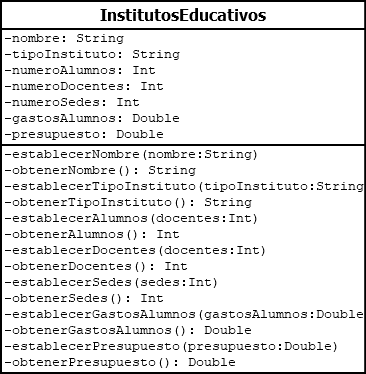
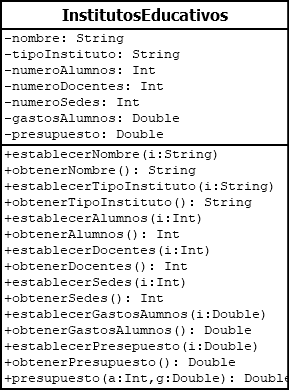
Taller 03/Tarea de programación

Changed region(s): [[0.0, 0.0, 0.9965, 1.0]]

diff --git a/problema3/Ejecutor.java b/problema3/Ejecutor.java
@@ -2,7 +2,7 @@
  * Click nbfs://nbhost/SystemFileSystem/Templates/Licenses/license-default.txt to change this license
  * Click nbfs://nbhost/SystemFileSystem/Templates/Classes/Main.java to edit this template
  */
-package equivalentehoras;
+package intitutoseducativos;
 
 /**
  *
@@ -15,41 +15,64 @@ public class Ejecutor {
      */
     public static void main(String[] args) {
         //Crear dos objetos.
-        EquivalenteHoras tiempo = new EquivalenteHoras();
-        EquivalenteHoras tiempo2 = new EquivalenteHoras();
+        InstitutosEducativos instituto = new InstitutosEducativos();
+        InstitutosEducativos instituto2 = new InstitutosEducativos();
         
         //Establecer los valores de los atributos del primer objeto.
-        tiempo.establecerHoras(48.20);
+        instituto.establecerNombre("La Dolorosa");
+        instituto.establecerTipoInstituto("Fiscomisional");
+        instituto.establecerNumeroAlumnos(2509);
+        instituto.establecerNumeroDocentes(55);
+        instituto.establecerNumeroSedes(1);
+        instituto.establecerGastosAlumnos(225.10);
         
-        //Se llama a los metodos.
-        tiempo.sacarMinutos();
-        tiempo.sacarSegundos();
-        tiempo.sacarDias();
+        //Hacemos el llamado de la funcion para
+        //calcular el valor del presupuesto.
+        instituto.presupuestos();
         
-        //Se presenta.
-        System.out.printf("Encontrar la equivalencia de las horas en "
-                + "minutos, segundos y días.\n\n"
-                + "-> %.2f horas tienen un equivalente de %.2f minutos, "
-                + "%.2f segundos y %.2f días\n",tiempo.obtenerHoras(), 
-                tiempo.obtenerMinutos(), tiempo.obtenerSegundos(), 
-                tiempo.obtenerDias());
+        //Presentamos los valores declarados al primer objeto.
+        System.out.printf("Administración de Instituciones Educativas\n\n"
+                + "Nombre del Intituto Educativo: %s\n"
+                + "Tipo de Institutción: %s\n"
+                + "Cantidad de Alumnos de la Institución: %d\n"
+                + "Docentes de la Institución: %d\n"
+                + "Cantidad de Sedes de la Institución: %d\n"
+                + "Los gastos de los alumnos son de $%.2f\n"
+                + "El presupuesto de la Institución es de $%.2f\n", 
+                instituto.obtenerNombre(), instituto.obtenerTipoInstituto(), 
+                instituto.obtenerNumeroAlumnos(), 
+                instituto.obtenerNumeroDocentes(), 
+                instituto.obtenerNumeroSedes(), 
+                instituto.obtenerGastosAlumnos(), 
+                instituto.obtenerPresupuesto());
         
-        System.out.println("-----------------------------------------------");
+         System.out.println("-----------------------------------------------");
         
-        tiempo2.establecerHoras(15.50);
+         //Establecer los valores de los atributos del primer objeto.
+        instituto2.establecerNombre("Daniel Álvarez");
+        instituto2.establecerTipoInstituto("Fiscomisional");
+        instituto2.establecerNumeroAlumnos(1890);
+        instituto2.establecerNumeroDocentes(85);
+        instituto2.establecerNumeroSedes(1);
+        instituto2.establecerGastosAlumnos(160.52);
         
-        //Se llama a los metodos.
-        tiempo2.sacarMinutos();
-        tiempo2.sacarSegundos();
-        tiempo2.sacarDias();
+        //Hacemos el llamado del metodo para calcular el valor del presupuesto.
+        instituto2.presupuestos();
         
-        //Se presenta.
-        System.out.printf("Encontrar la equivalencia de las horas en "
-                + "minutos, segundos y días.\n\n"
-                + "-> %.2f horas tienen un equivalente de %.2f minutos, "
-                + "%.2f segundos y %.2f días\n",tiempo2.obtenerHoras(), 
-                tiempo2.obtenerMinutos(), tiempo2.obtenerSegundos(), 
-                tiempo2.obtenerDias());
+        //Presentamos los valores declarados al primer objeto.
+        System.out.printf("Nombre del Intituto Educativo: %s\n"
+                + "Tipo de Institutción: %s\n"
+                + "Cantidad de Alumnos de la Institución: %d\n"
+                + "Docentes de la Institución: %d\n"
+                + "Cantidad de Sedes de la Institución: %d\n"
+                + "Los gastos de los alumnos son de $%.2f\n"
+                + "El presupuesto de la Institución es de $%.2f\n", 
+                instituto2.obtenerNombre(), instituto.obtenerTipoInstituto(), 
+                instituto2.obtenerNumeroAlumnos(), 
+                instituto2.obtenerNumeroDocentes(), 
+                instituto2.obtenerNumeroSedes(), 
+                instituto2.obtenerGastosAlumnos(), 
+                instituto2.obtenerPresupuesto());
     }
     
 }

diff --git a/problema4/Ejecutor.java b/problema4/Ejecutor.java
@@ -1,0 +1,85 @@
+/*
+ * Click nbfs://nbhost/SystemFileSystem/Templates/Licenses/license-default.txt to change this license
+ * Click nbfs://nbhost/SystemFileSystem/Templates/Classes/Main.java to edit this template
+ */
+package dispositivoselectronicos;
+
+/**
+ *
+ * @author Usuario
+ */
+public class Ejecutor {
+
+    /**
+     * @param args the command line arguments
+     */
+    public static void main(String[] args) {
+        //Crear dos objetos de tipo DispositivosElectronicos.
+        DispositivosElectronicos celulares = new DispositivosElectronicos();
+        DispositivosElectronicos celulares2 = new DispositivosElectronicos();
+        
+        //Inicializar variables del iva.
+        double iva = 0.12;
+        
+        //Establecer los valores de los tributos del primero objeto.
+        celulares.establecerSistemaOperativo("iOS");
+        celulares.establecerTamanioPantalla(4.95);
+        celulares.establecerCostoInicial(625.00);
+        celulares.establecerPorcentajeIva(iva);
+        celulares.establecerDireccionMac("A:5C:4D:6C:8E:7G:9");
+        celulares.establecerDireccionImei("865110048651100/00");
+        
+        //Hacer el llamado de las funciones.
+        celulares.calcularIvaCostoInicial();
+        celulares.calcularCostoFinal();
+        
+        //Se presenta:
+        System.out.printf("Caracteristicas de los Equipo Celulares.\n\n"
+                + "Sistema operativo del dispositivo: %s\n"
+                + "Pantalla de %.2f pulgadas.\n"
+                + "Precio del celular: $%.2f\n"
+                + "Iva de 12 porciento.\n"
+                + "Costo adicional por iva de $%.2f\n"
+                + "Costo final con iva adherido de $%.2f\n"
+                + "Dirección Mac de dispositivo - %s\n"
+                + "Dirección Imei del dispositivo - %s\n", 
+                celulares.obtenerSistemaOperativo(), 
+                celulares.obtenerTamanioPantalla(), 
+                celulares.obtenerCostoInicial(), 
+                celulares.obtenerIvaCostoInicial(), 
+                celulares.obtenerIvaCostoFinal(), 
+                celulares.obtenerDireccionMac(), 
+                celulares.obtenerDireccionImei());
+        
+        System.out.println("-----------------------------------------------");
+        
+        celulares2.establecerSistemaOperativo("Android");
+        celulares2.establecerTamanioPantalla(5.20);
+        celulares2.establecerCostoInicial(399.99);
+        celulares2.establecerPorcentajeIva(iva);
+        celulares2.establecerDireccionMac("B:6C:3F:5H:2E:7D:4");
+        celulares2.establecerDireccionImei("249333560004871/00");
+        
+        //Hacer el llamado de las funciones.
+        celulares2.calcularIvaCostoInicial();
+        celulares2.calcularCostoFinal();
+        
+        //Se presenta:
+        System.out.printf("Sistema operativo del dispositivo: %s\n"
+                + "Pantalla de %.2f pulgadas.\n"
+                + "Precio del celular: $%.2f\n"
+                + "Iva de 12 porciento.\n"
+                + "Costo adicional por iva de $%.2f\n"
+                + "Costo final con iva adherido de $%.2f\n"
+                + "Dirección Mac de dispositivo - %s\n"
+                + "Dirección Imei del dispositivo - %s\n", 
+                celulares2.obtenerSistemaOperativo(), 
+                celulares2.obtenerTamanioPantalla(), 
+                celulares2.obtenerCostoInicial(), 
+                celulares2.obtenerIvaCostoInicial(), 
+                celulares2.obtenerIvaCostoFinal(), 
+                celulares2.obtenerDireccionMac(), 
+                celulares2.obtenerDireccionImei());
+    }
+    
+}

diff --git a/problema4/DispositivosElectronicos.java b/problema4/DispositivosElectronicos.java
@@ -1,0 +1,87 @@
+/*
+ * Click nbfs://nbhost/SystemFileSystem/Templates/Licenses/license-default.txt to change this license
+ * Click nbfs://nbhost/SystemFileSystem/Templates/Classes/Class.java to edit this template
+ */
+package dispositivoselectronicos;
+
+/**
+ *
+ * @author Usuario
+ */
+public class DispositivosElectronicos {
+    private String sistemaOperativo;
+    private double tamanioPantalla;
+    private double costoInicial;
+    private double porcentajeIva;
+    private double ivaCostoInicial;
+    private double costoFinal;
+    private String direccionMac;
+    private String direccionImei;
+    
+    //Metodos establecer y obtener para las variables.
+    public void establecerSistemaOperativo(String s){
+        sistemaOperativo = s;
+    }
+    
+    public void establecerTamanioPantalla(double s){
+        tamanioPantalla = s;
+    }
+    
+    public void establecerCostoInicial(double s){
+        costoInicial = s;
+    }
+    
+    public void establecerPorcentajeIva(double s){
+        porcentajeIva = s;
+    }
+    
+    public void establecerDireccionMac(String s){
+        direccionMac = s;
+    }
+    
+    public void establecerDireccionImei(String s){
+        direccionImei = s;
+    }
+    
+    //Funciones para realizar el calculo del agregado del iva y costo final.
+    public void calcularIvaCostoInicial(){
+        ivaCostoInicial = costoInicial*porcentajeIva;
+    }
+    
+    public void calcularCostoFinal(){
+        costoFinal = costoInicial+ivaCostoInicial;
+    }
+    
+    //Metodos obtener.
+    public String obtenerSistemaOperativo(){
+         return sistemaOperativo;
+     }
+    
+    public double obtenerTamanioPantalla(){
+         return tamanioPantalla;
+     }
+    
+    public double obtenerCostoInicial(){
+         return costoInicial;
+     }
+    
+    public double obtenerPorcentajeIva(){
+         return porcentajeIva;
+     }
+    
+    public double obtenerIvaCostoInicial(){
+         return ivaCostoInicial;
+     }
+    
+    public double obtenerIvaCostoFinal(){
+         return costoFinal;
+     }
+    
+    public String obtenerDireccionMac(){
+         return direccionMac;
+     }
+    
+    public String obtenerDireccionImei(){
+         return direccionImei;
+     }
+}

diff --git a/problema2/Ejecutor.java b/problema2/Ejecutor.java
@@ -21,7 +21,7 @@ public class Ejecutor {
         //Establecer los valores de los atributos del primer objeto.
         tiempo.establecerHoras(48.20);
         
-        //Se llama a los metodos.
+        //Se hace el llamado de las funciones.
         tiempo.sacarMinutos();
         tiempo.sacarSegundos();
         tiempo.sacarDias();

diff --git a/problema1/Terreno.java b/problema1/Terreno.java
@@ -52,7 +52,7 @@ public class Terreno {
        return costoTerreno;
      }
      
-     public double obtenerArea(){
+    public double obtenerArea(){
          return area;
      }
     
